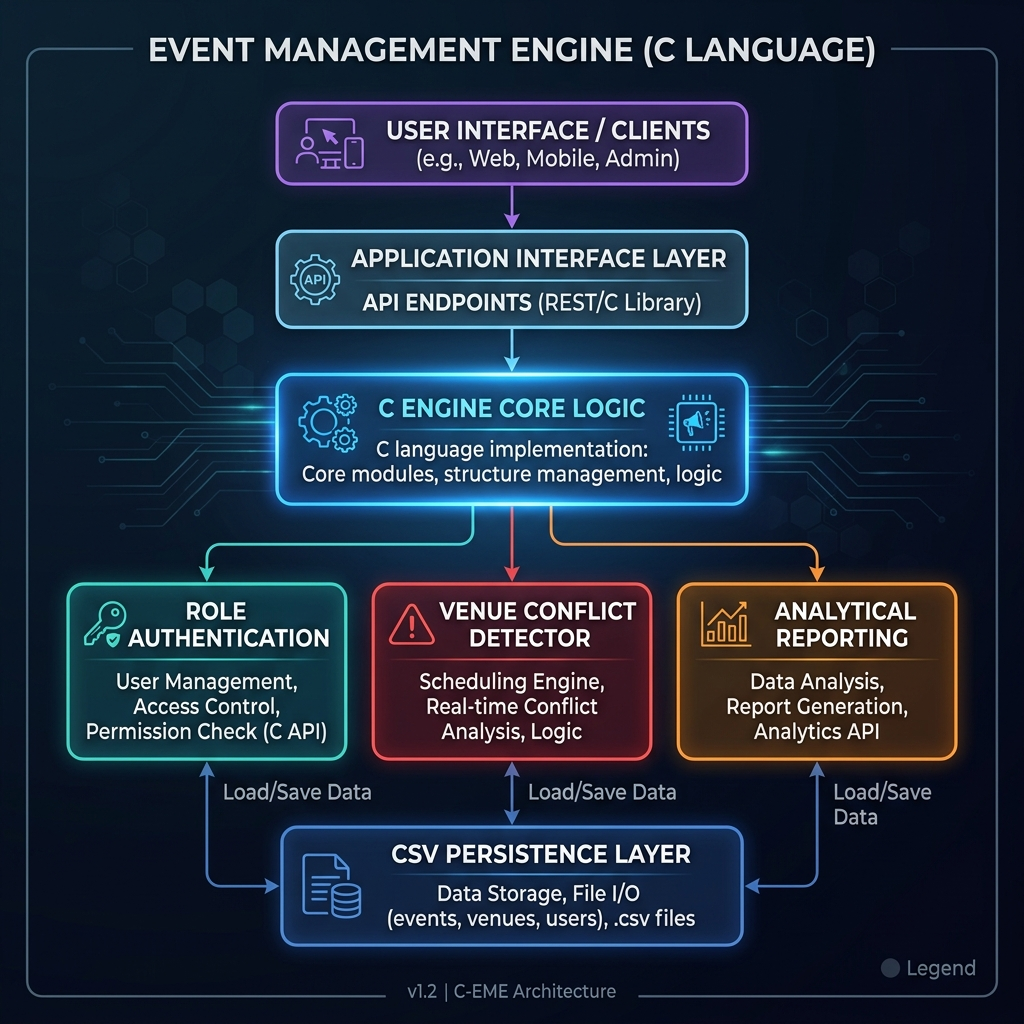
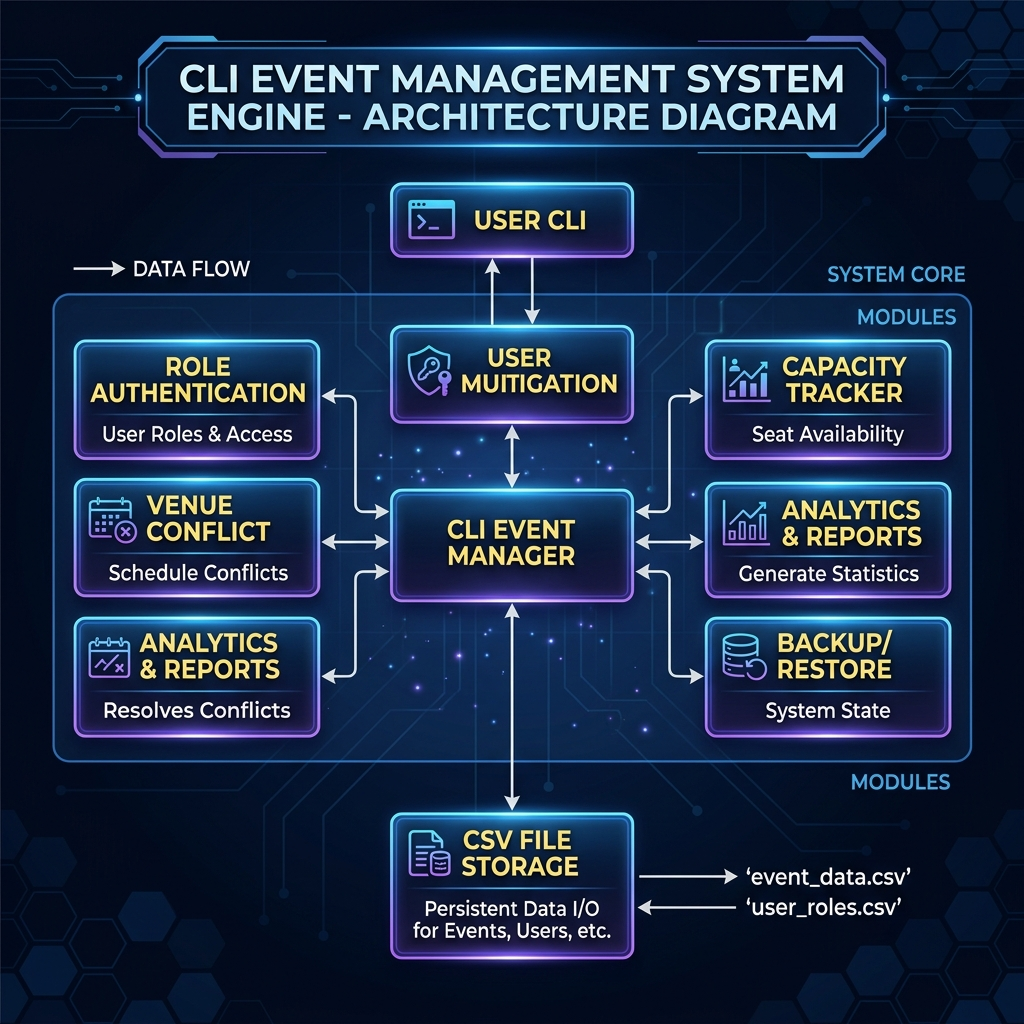
Pratik - "Enhanced event update functionality and updated CLI architecture diagram assets"

diff --git a/main.c b/main.c
@@ -94,8 +94,10 @@ void manageBackups(int restore) {
         char ch;
         if (src1 && dst1) while ((ch = fgetc(src1)) != EOF) fputc(ch, dst1);
         if (src2 && dst2) while ((ch = fgetc(src2)) != EOF) fputc(ch, dst2);
-        if(src1) fclose(src1); if(dst1) fclose(dst1);
-        if(src2) fclose(src2); if(dst2) fclose(dst2);
+        if(src1) fclose(src1); 
+        if(dst1) fclose(dst1);
+        if(src2) fclose(src2); 
+        if(dst2) fclose(dst2);
         printf("Data backup created successfully.\n");
     }
 }
@@ -156,22 +158,54 @@ void addEvent() {
     printf("Event added successfully! (ID: %d)\n", e.id);
 }
 
-// FR4: Update Event [cite: 29]
+// FR4: Update Event
 void updateEvent() {
     int id, idx;
     printf("Enter Event ID to update: "); scanf("%d", &id); getchar();
     if ((idx = findEventIndex(id)) == -1) { printf("Event not found.\n"); return; }
     
-    printf("New Title (or press enter to skip): "); char buffer[MAX_STR]; fgets(buffer, MAX_STR, stdin); strip_nl(buffer);
+    char buffer[MAX_STR];
+    printf("New Title (or press enter to skip): "); fgets(buffer, MAX_STR, stdin); strip_nl(buffer);
     if(strlen(buffer) > 0) strcpy(events[idx].title, buffer);
     
-    printf("New Time (or press enter to skip): "); fgets(buffer, MAX_STR, stdin); strip_nl(buffer);
-    if(strlen(buffer) > 0) {
-        if(checkConflict(events[idx].date, buffer, events[idx].venue, id)) { printf("Conflict! Time not updated.\n"); } 
-        else { strcpy(events[idx].time, buffer); }
+    char new_date[MAX_STR], new_time[MAX_STR], new_venue[MAX_STR];
+    strcpy(new_date, events[idx].date);
+    strcpy(new_time, events[idx].time);
+    strcpy(new_venue, events[idx].venue);
+
+    printf("New Date (DD/MM/YY) (or press enter to skip): "); fgets(buffer, MAX_STR, stdin); strip_nl(buffer);
+    if(strlen(buffer) > 0) strcpy(new_date, buffer);
+
+    printf("New Time (HH:MM) (or press enter to skip): "); fgets(buffer, MAX_STR, stdin); strip_nl(buffer);
+    if(strlen(buffer) > 0) strcpy(new_time, buffer);
+
+    printf("New Venue (or press enter to skip): "); fgets(buffer, MAX_STR, stdin); strip_nl(buffer);
+    if(strlen(buffer) > 0) strcpy(new_venue, buffer);
+
+    if(checkConflict(new_date, new_time, new_venue, id)) {
+        printf("ERROR: Venue/Time conflict detected! Schedule details reverted.\n");
+    } else {
+        strcpy(events[idx].date, new_date);
+        strcpy(events[idx].time, new_time);
+        strcpy(events[idx].venue, new_venue);
     }
+
+    printf("New Category (or press enter to skip): "); fgets(buffer, MAX_STR, stdin); strip_nl(buffer);
+    if(strlen(buffer) > 0) strcpy(events[idx].category, buffer);
+
+    printf("New Capacity (or press enter to skip): "); fgets(buffer, MAX_STR, stdin); strip_nl(buffer);
+    if(strlen(buffer) > 0) {
+        int cap = atoi(buffer);
+        if (cap > 0) {
+            if (cap < events[idx].registered) {
+                printf("WARNING: New capacity (%d) is lower than current registrations (%d)!\n", cap, events[idx].registered);
+            }
+            events[idx].capacity = cap;
+        }
+    }
+
     saveData();
-    printf("Event updated.\n");
+    printf("Event updated successfully.\n");
 }
 
 // FR5: Delete Event [cite: 29]